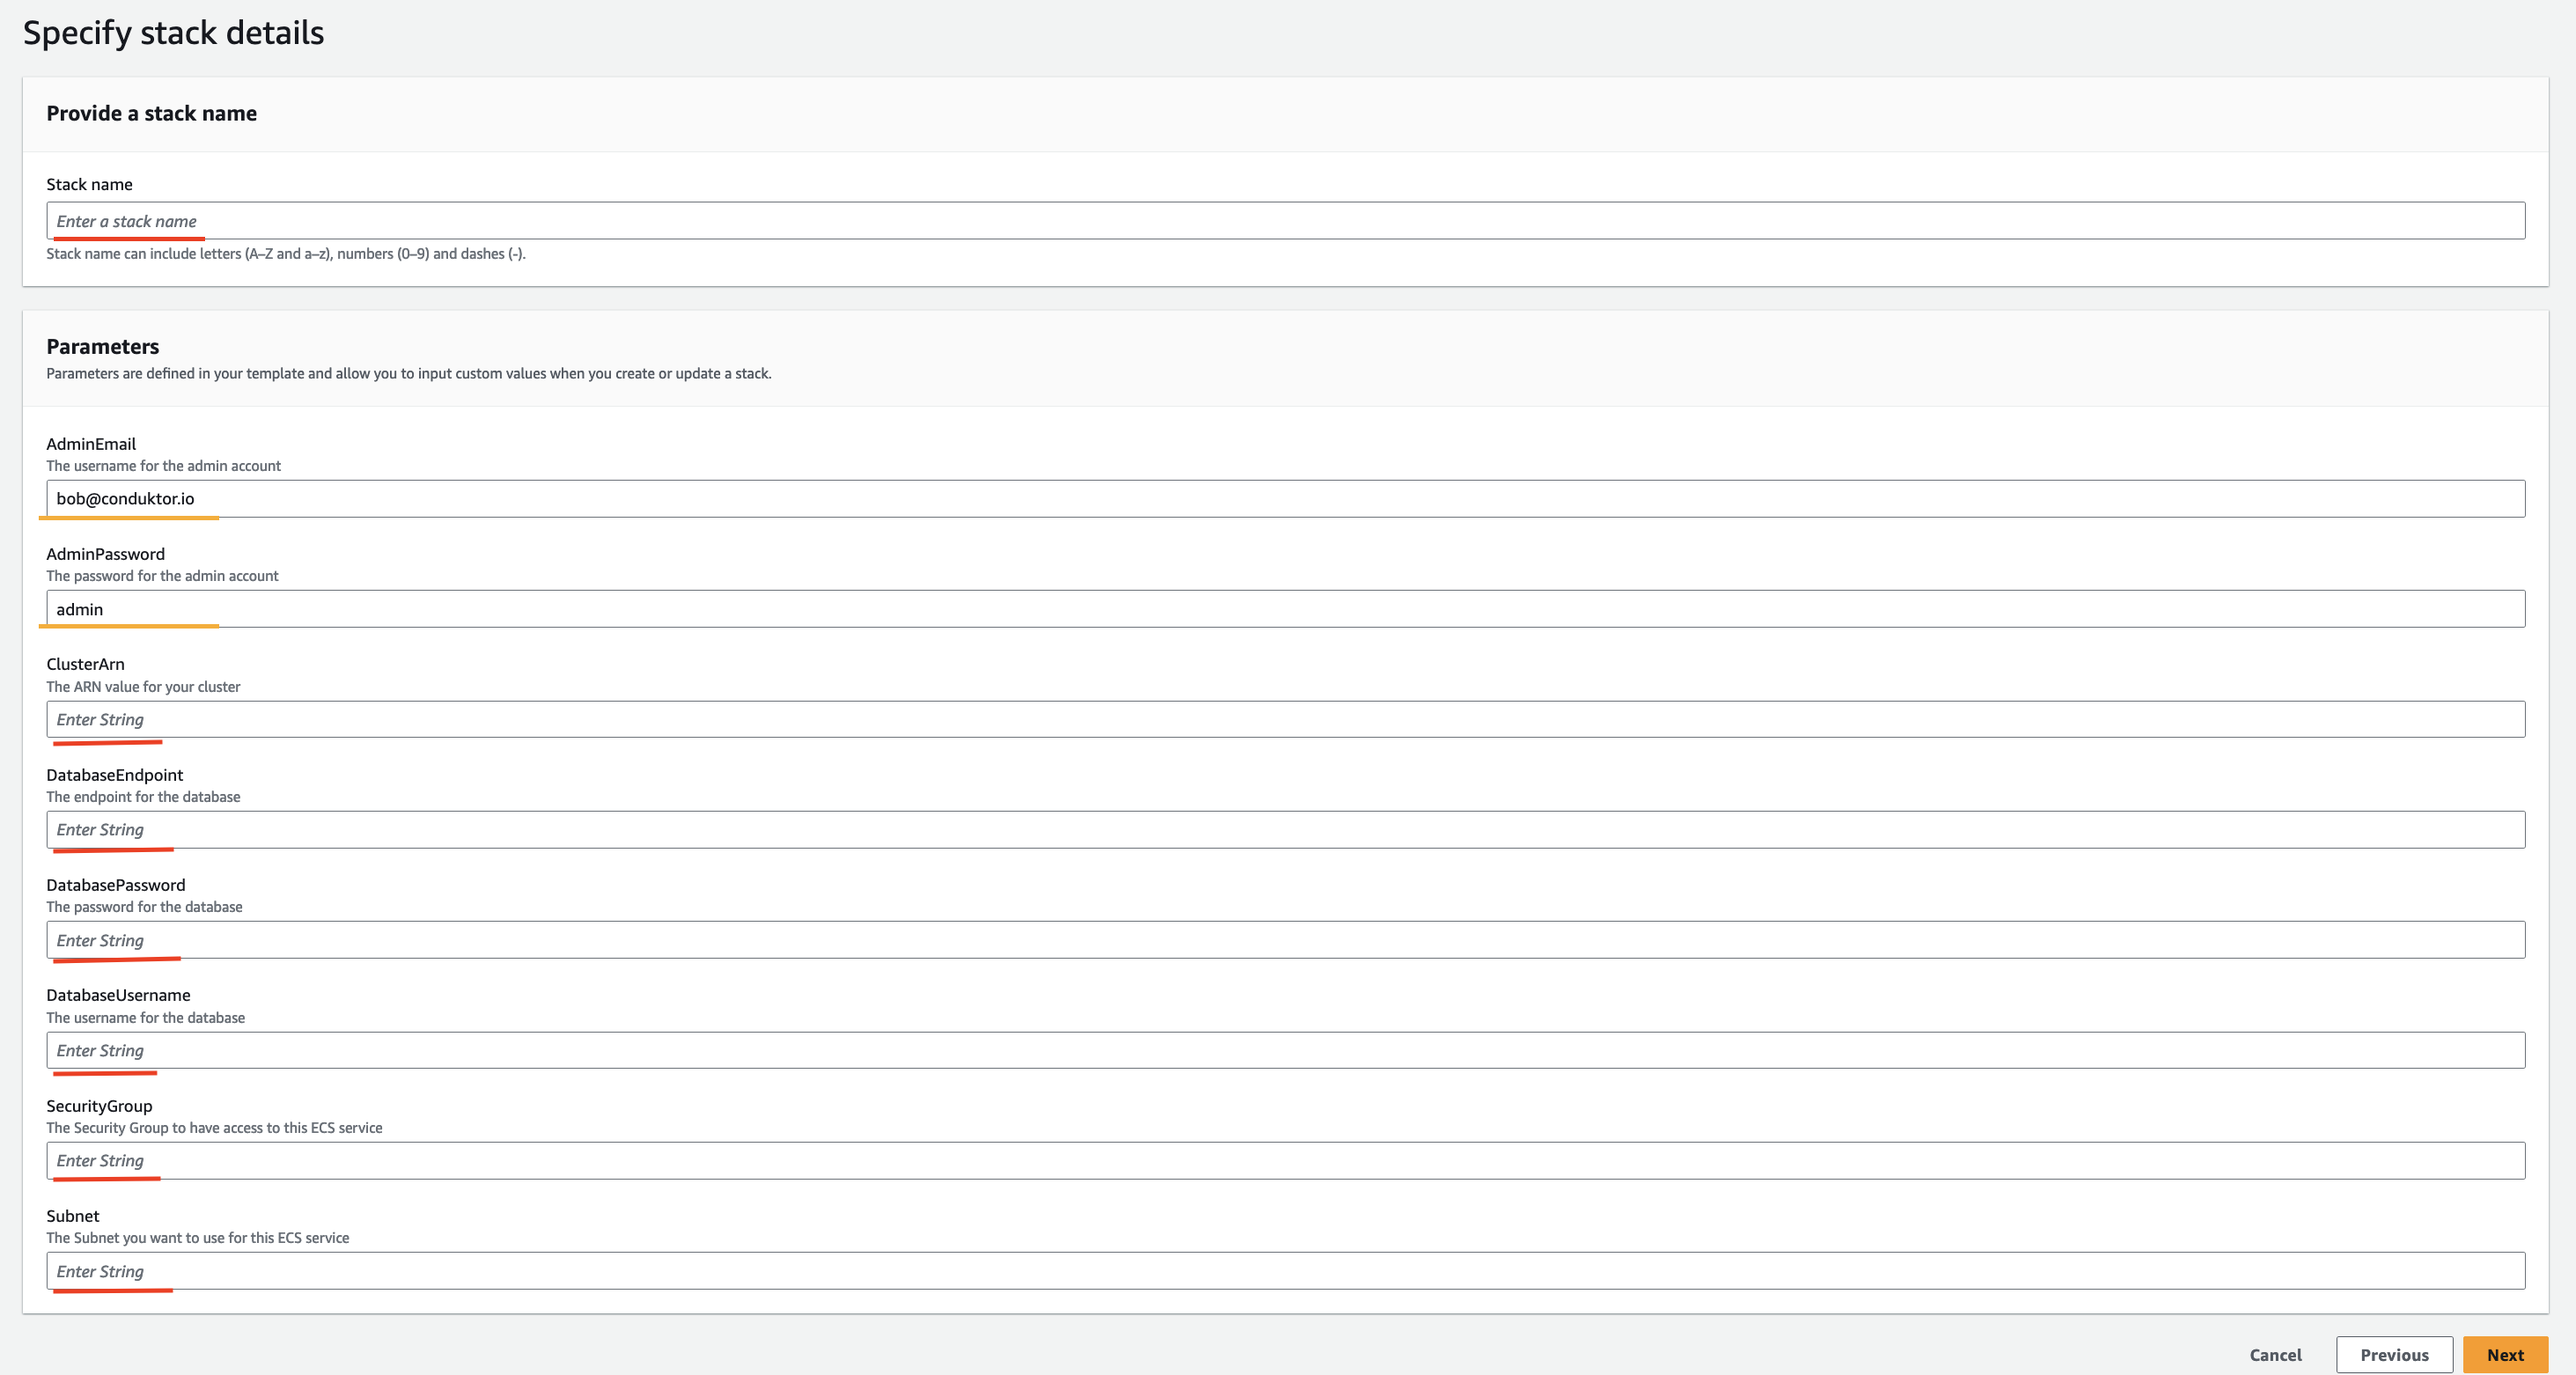
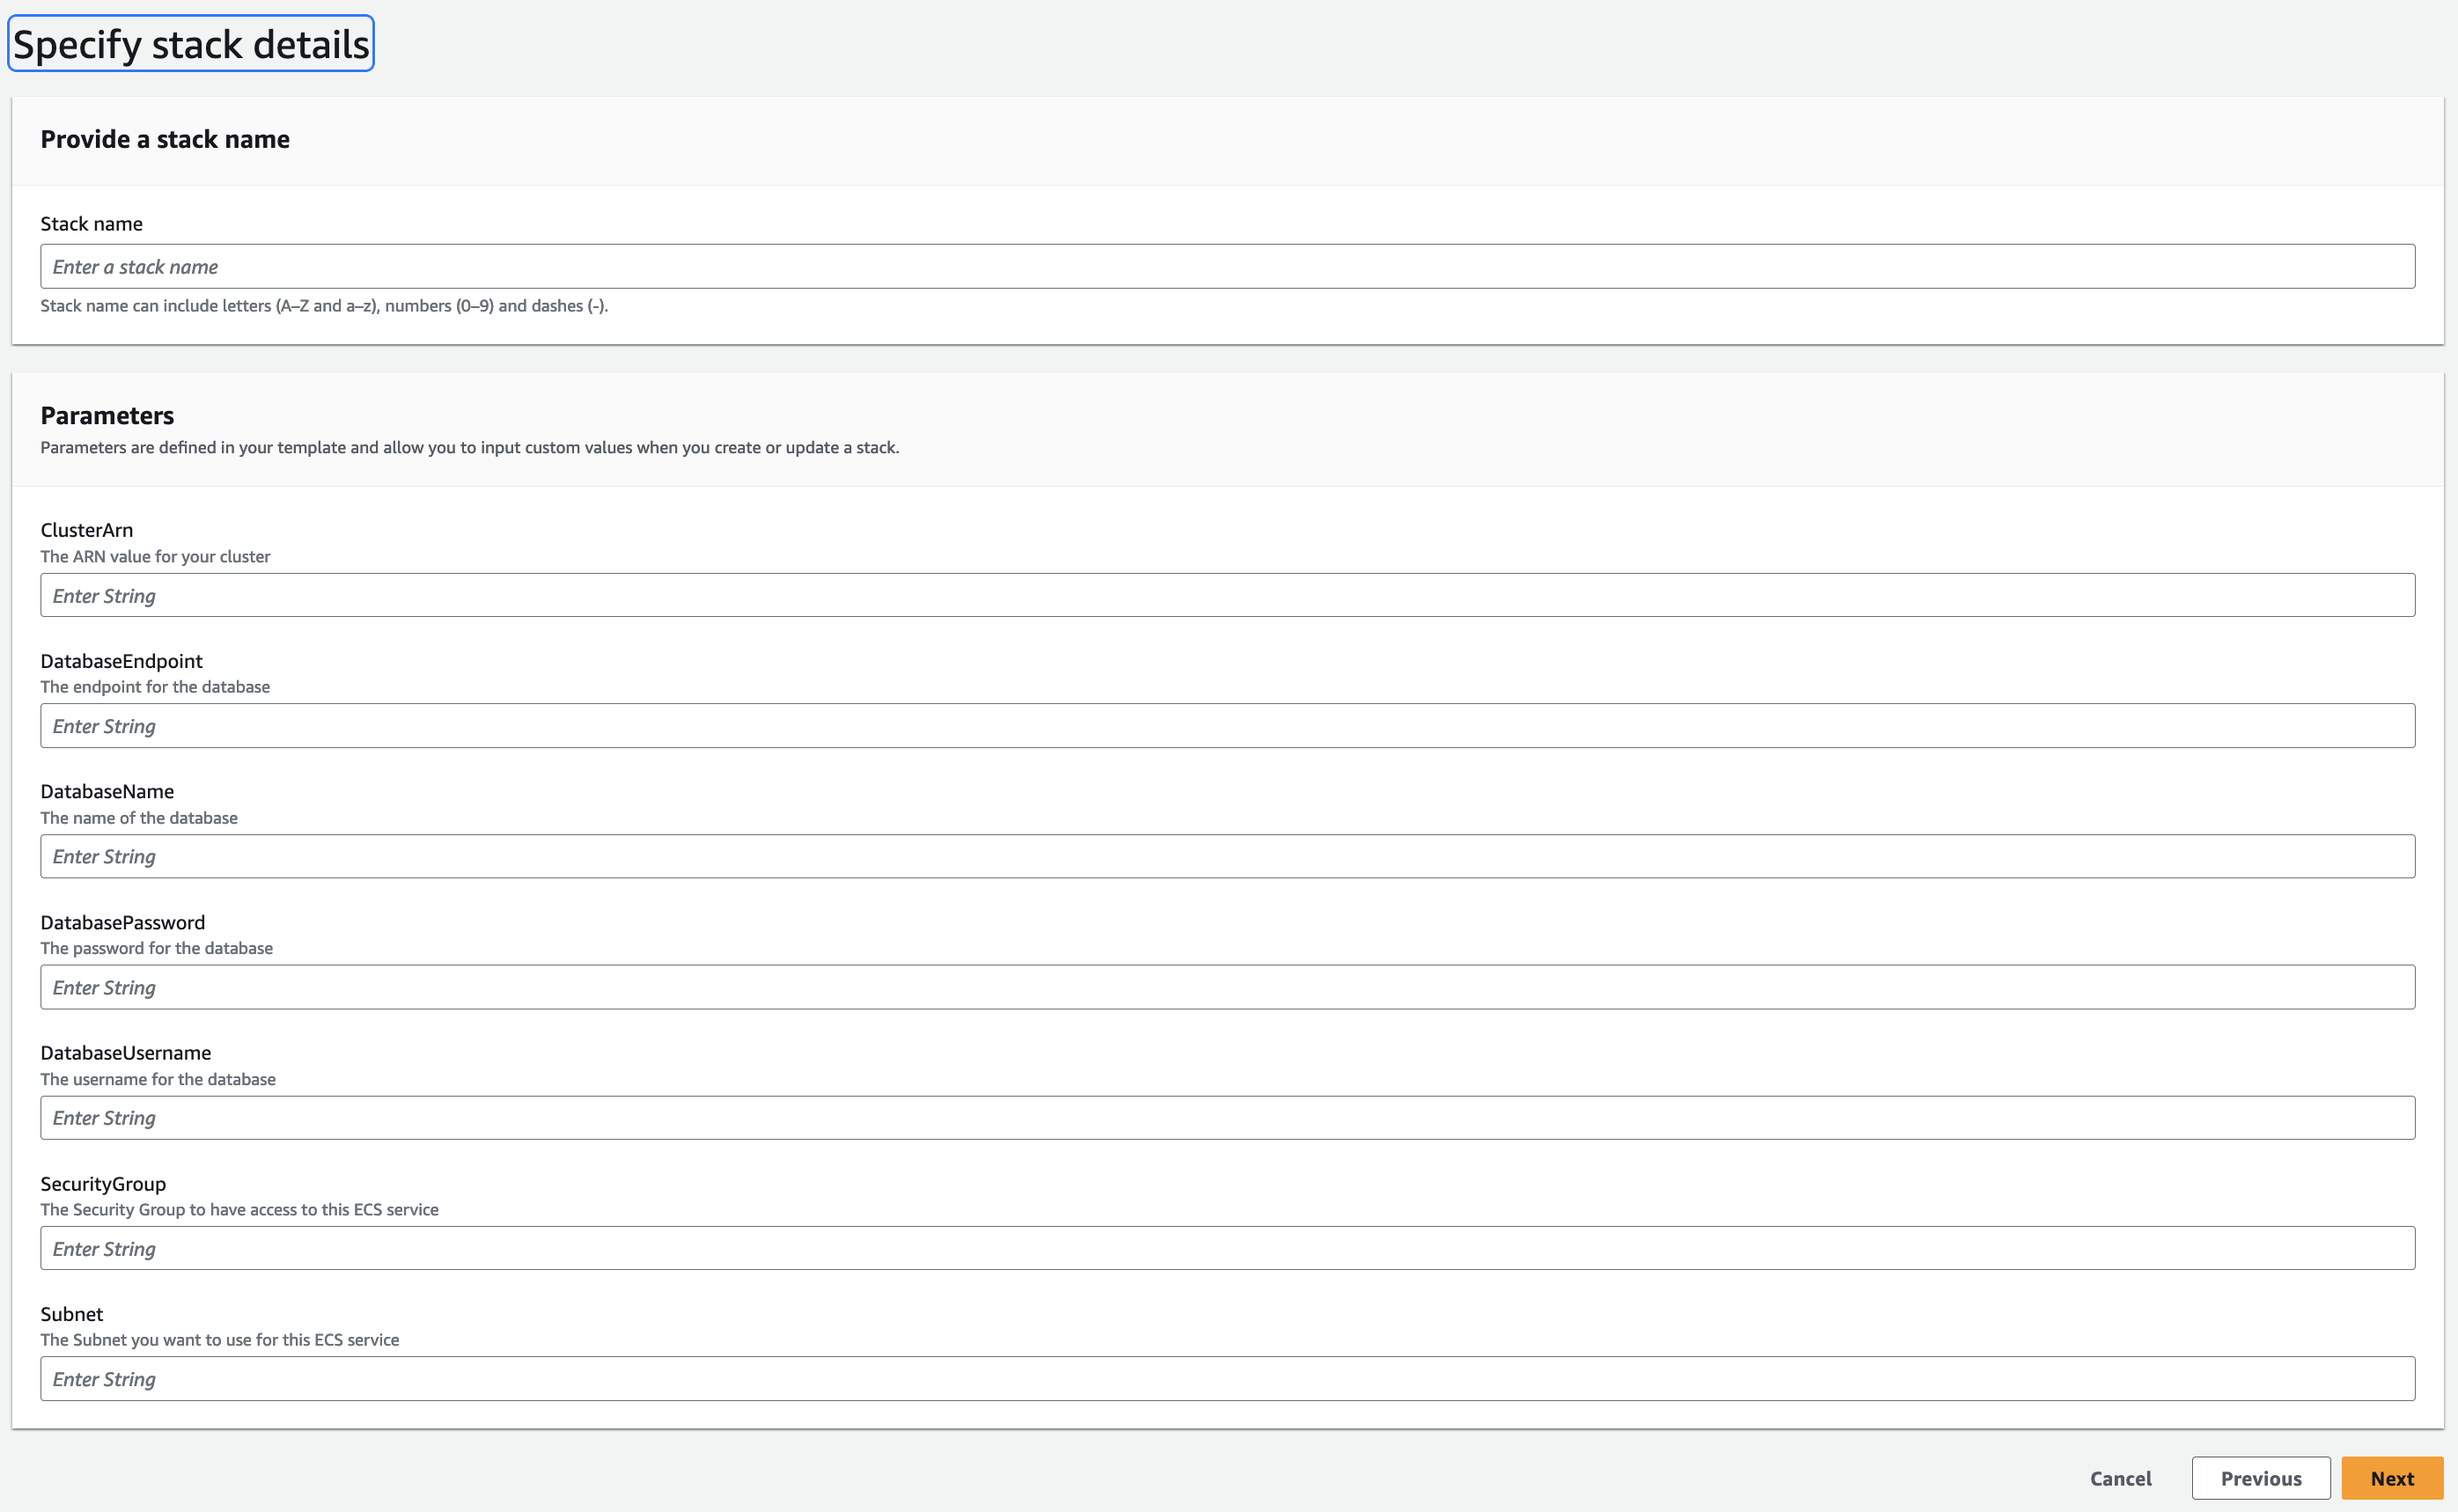
change pictures since we removed admin parameters

Changed region(s): [[0.0, 0.2458, 0.9971, 1.0], [0.0, 0.0, 0.2493, 0.2151]]

diff --git a/docs/platform/installation/get-started/CloudFormation.md b/docs/platform/installation/get-started/CloudFormation.md
@@ -65,10 +65,10 @@ This template will create all the resources on a public subnet. It is important 
 
     ![Alt Config](assets/cloudformation-guide-3.png)
 
-    - If you have chosen the [CDK-Full-template](https://github.com/conduktor/quickstart-conduktor-cloudformation/blob/main/templates/CDK-full-template.yaml), then you **won't** have to supply any parameter values, but you should override the default ones (e.g. the **admin email**, **admin password** and **AWS region**).
+    - If you have chosen the [CDK-Full-template](https://github.com/conduktor/quickstart-conduktor-cloudformation/blob/main/templates/CDK-full-template.yaml), then you **won't** have to supply any parameter values, but you may override the default ones.
 
     :::warning
-    Note the default value for region is specified in the template as **`eu-west-1c`**, if you are deploying in a **different region** you must update this value. 
+    Note the default value for region is specified in the template as **`eu-west-1a`** (public subnet) and **`eu-west-1b`** (private subnet), if you are deploying in a **different region** you must update these values.
     :::
 
     ![Alt Config](assets/cloudformation-guide-4.png)
